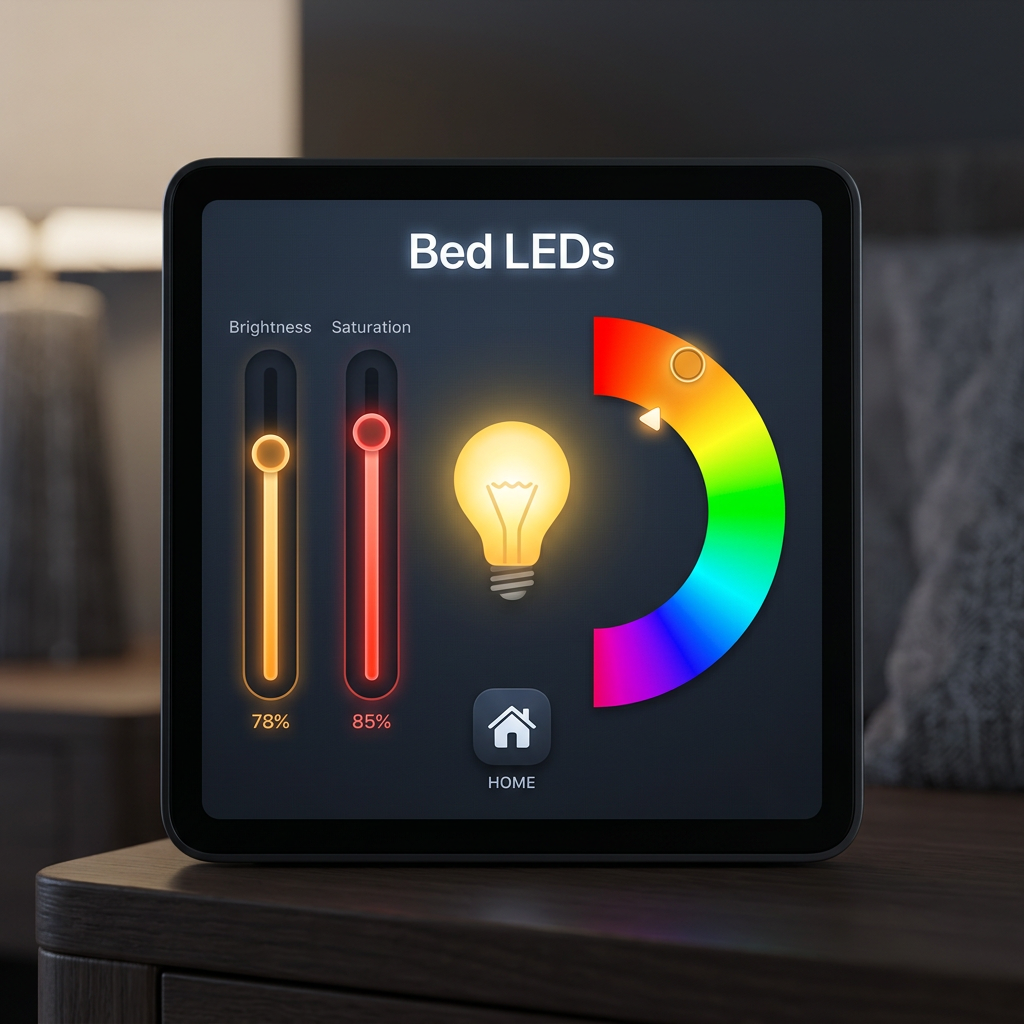
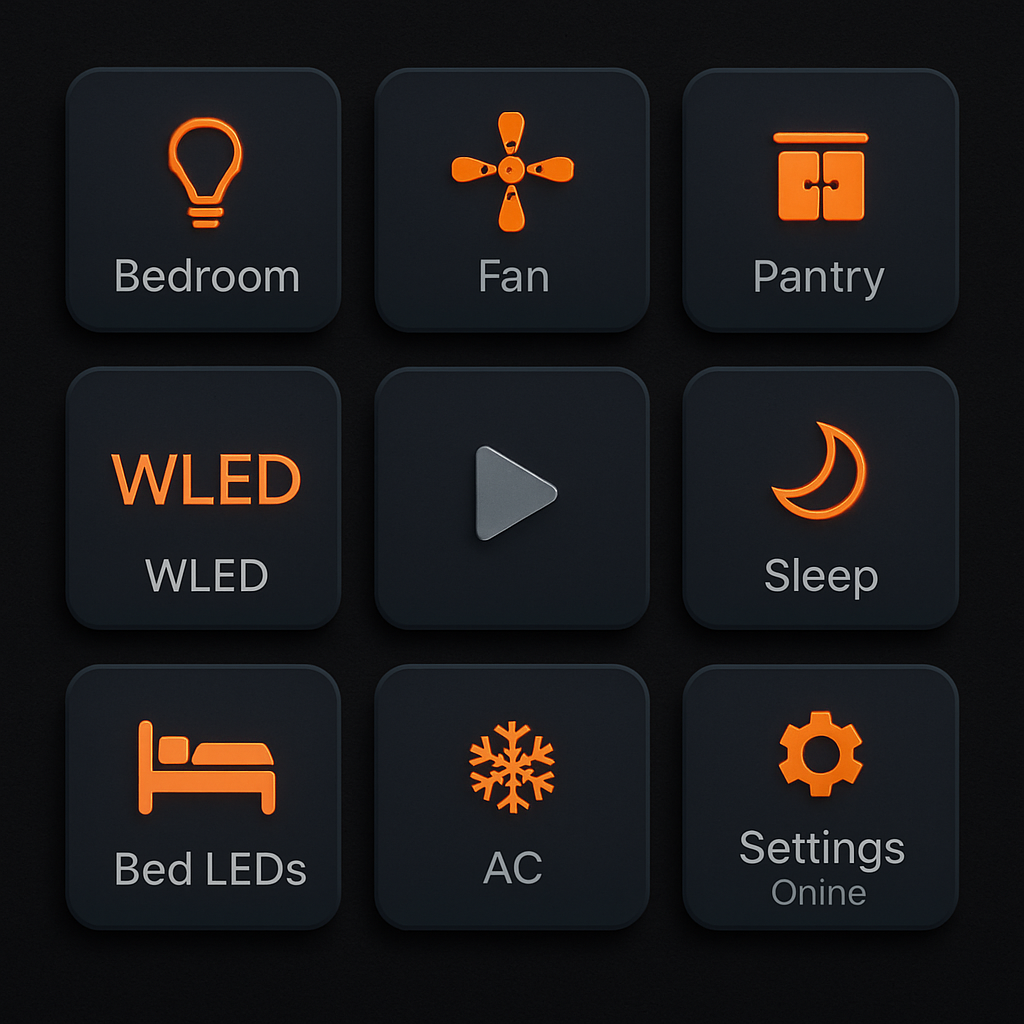
feat(ui): AC 0.5-degree long-press steps, Home-AC-Light swipe ring, settings header + slider %, mockup names fixed
- AC steppers: long-press = ±0.5° fine step (clamped 16..31), fractional
  display on the gauge label and HA-synced labels
- Swipe ring: Home swipes left->AC / right->Light; AC swipes right->Home;
  Light swipes left->Home (explicit lvgl.page.show targets with
  OUT_LEFT/OUT_RIGHT 300ms animations, independent of page order;
  replaces the old next/previous include on main_page)
- Settings: header bar with back arrow + centered title (mockup
  screen_settings.png), right-aligned live % next to each brightness
  slider, all theme-aware under apply_settings_theme
- docs/images: removed mislabeled screen_home/screen_info (verified:
  there was no home-grid or info mockup among them; screen_home and
  screen_light both showed the light page). README/docs point home
  references at the theme_*_home.png galleries
- validated: esphome config passes for Display01+02, long-press and
  swipe automations confirmed present in generated main.cpp

diff --git a/README.md b/README.md
@@ -93,9 +93,9 @@ Uses less resources — pure black, #1A1A1A buttons radius 4, white only, no col
 
 ### All Screens Gallery (General)
 
-| Home | AC | Settings | Screensaver | Light | Info |
+| Home | AC | Settings | Screensaver | Light |
 |---|---|---|---|---|---|
-| ![Home](docs/images/screen_home.png) | ![AC](docs/images/screen_ac.png) | ![Settings](docs/images/screen_settings.png) | ![Saver](docs/images/screen_screensaver.png) | ![Light](docs/images/screen_light.png) | ![Info](docs/images/screen_info.png) |
+| ![Home](docs/images/theme_modern_home.png) | ![AC](docs/images/screen_ac.png) | ![Settings](docs/images/screen_settings.png) | ![Saver](docs/images/screen_screensaver.png) | ![Light](docs/images/screen_light.png) |
 
 ---
 
@@ -127,7 +127,7 @@ Uses less resources — pure black, #1A1A1A buttons radius 4, white only, no col
 ├── README.md
 ├── docs/
 │   ├── images/
-│   │   ├── screen_home.png, screen_ac.png... (6 general)
+│   │   ├── screen_ac.png, screen_light.png, screen_settings.png...
 │   │   ├── theme_classic_home/ac/settings.png (3 classic)
 │   │   ├── theme_modern_home/ac/settings.png (3 modern like mockup)
 │   │   └── theme_performance_home/ac/settings.png (3 perf)

diff --git a/docs/README.md b/docs/README.md
@@ -3,12 +3,13 @@
 ## Images
 
 ### General Screens (v2.1)
-- `images/screen_home.png` — Home dashboard mockup
-- `images/screen_ac.png` — AC control expanded
+- `images/screen_ac.png` — AC climate control mockup
+- `images/screen_light.png` — WLED / light page mockup (Bed LEDs)
 - `images/screen_settings.png` — Fast settings page
 - `images/screen_screensaver.png` — Screensaver clock + weather
-- `images/screen_light.png` — Light color picker
-- `images/screen_info.png` — Device info diagnostics
+
+Home-screen references: use the `theme_*_home.png` gallery images (there is
+no dedicated home-grid mockup).
 
 ### Themes (v2.2) — 3 Selectable
 - **Classic**: `theme_classic_home.png`, `theme_classic_ac.png`, `theme_classic_settings.png` — original dark
